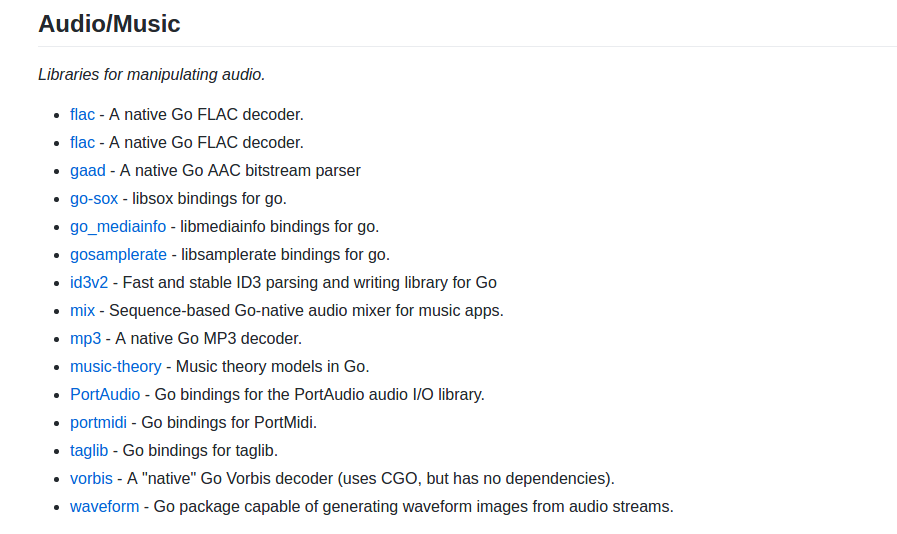
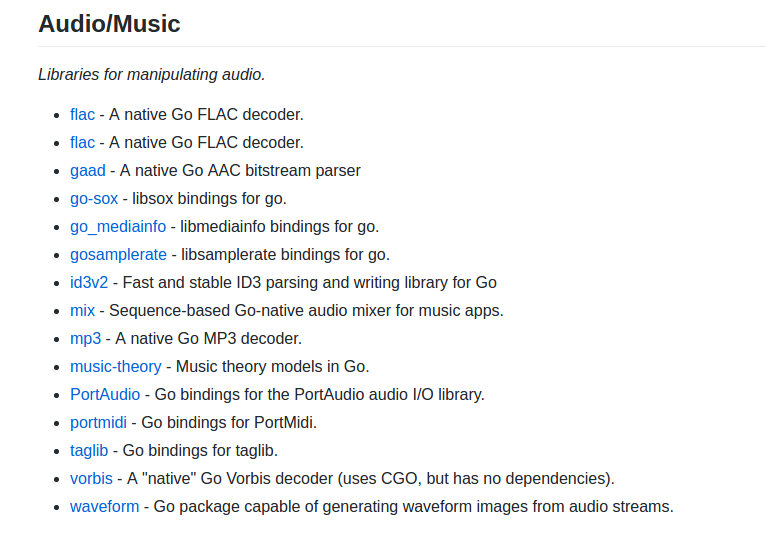
Added `download` section and fixed the `before` image width

diff --git a/README.md b/README.md
@@ -23,6 +23,10 @@ Usage of ./awesome-stats:
     	stats template (default "(★{{.Stars}})")
 ```
 
+# Download
+
+You can download the recent build of the `awesome-stats` from https://bintray.com/zerkms/generic/awesome-stats/ or build it yourself (that would require go v1.8).
+
 # License
 
 GNU GENERAL PUBLIC LICENSE v3 (see `LICENSE.md`)
